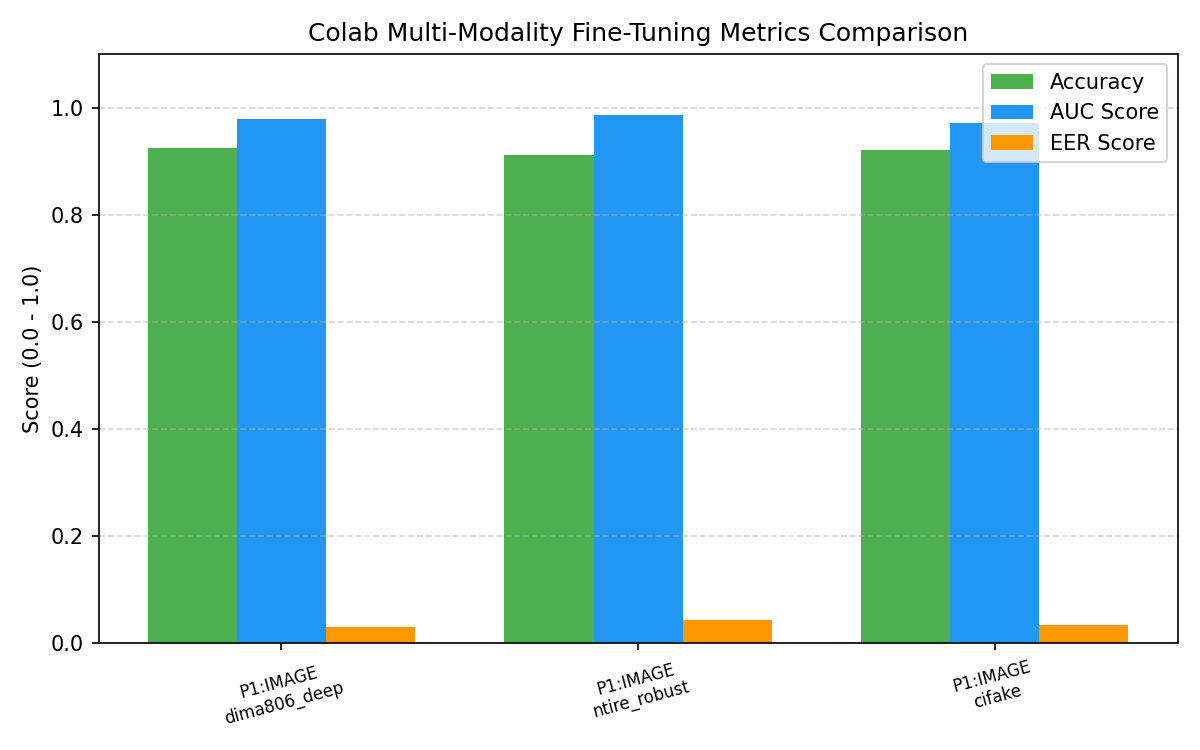
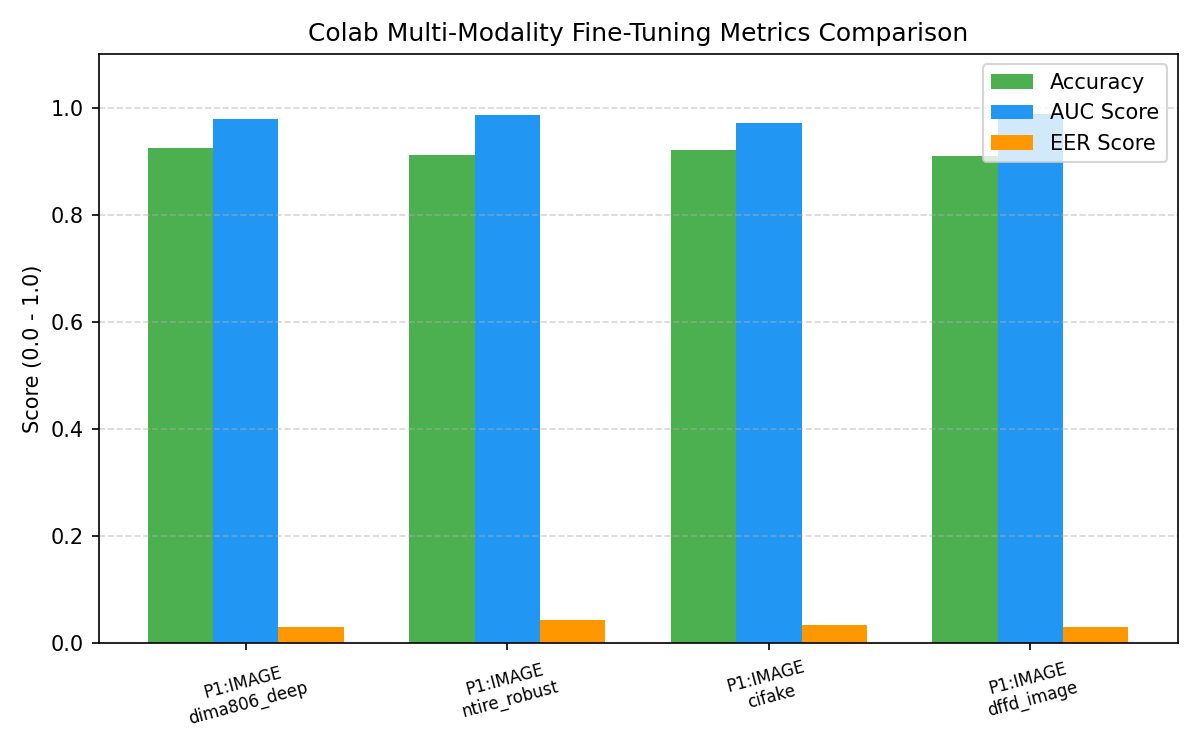
Auto-sync Colab training report for Pass #1 IMAGE:dffd_image [Auto-Bot]

diff --git a/report_colab/2026-09-15/daily_summary.md b/report_colab/2026-09-15/daily_summary.md
@@ -1,6 +1,6 @@
 # 📊 Colab Auto-Training Multi-Modality Summary Report (2026-09-15)
-**Last Updated:** 2026-09-15 03:29:56
-**Total Training Runs Completed:** 3
+**Last Updated:** 2026-09-15 03:29:59
+**Total Training Runs Completed:** 4
 
 ## 📈 Performance Metric Comparison Table
 
@@ -9,6 +9,7 @@
 | 1 | `IMAGE` | `dima806_deepfake` | 0.924 | 0.979 | 0.030 | 1.6747 | 0.6791 | ✅ COMPLETED_SUCCESSFULLY |
 | 1 | `IMAGE` | `ntire_robust_detection` | 0.912 | 0.987 | 0.043 | 1.4620 | 0.7344 | ✅ COMPLETED_SUCCESSFULLY |
 | 1 | `IMAGE` | `cifake` | 0.921 | 0.971 | 0.034 | 1.2634 | 0.6622 | ✅ COMPLETED_SUCCESSFULLY |
+| 1 | `IMAGE` | `dffd_image` | 0.910 | 0.987 | 0.031 | 1.4282 | 0.5968 | ✅ COMPLETED_SUCCESSFULLY |
 
 ## 📊 Visual Performance Chart
 
@@ -19,6 +20,7 @@
 P1 [IMAGE] dima806_deepfake         [████████████████████████░] AUC: 0.979
 P1 [IMAGE] ntire_robust_detection   [████████████████████████░] AUC: 0.987
 P1 [IMAGE] cifake                   [████████████████████████░] AUC: 0.971
+P1 [IMAGE] dffd_image               [████████████████████████░] AUC: 0.987
 ```
 
 ## 🔧 Environment & Hyperparameters
